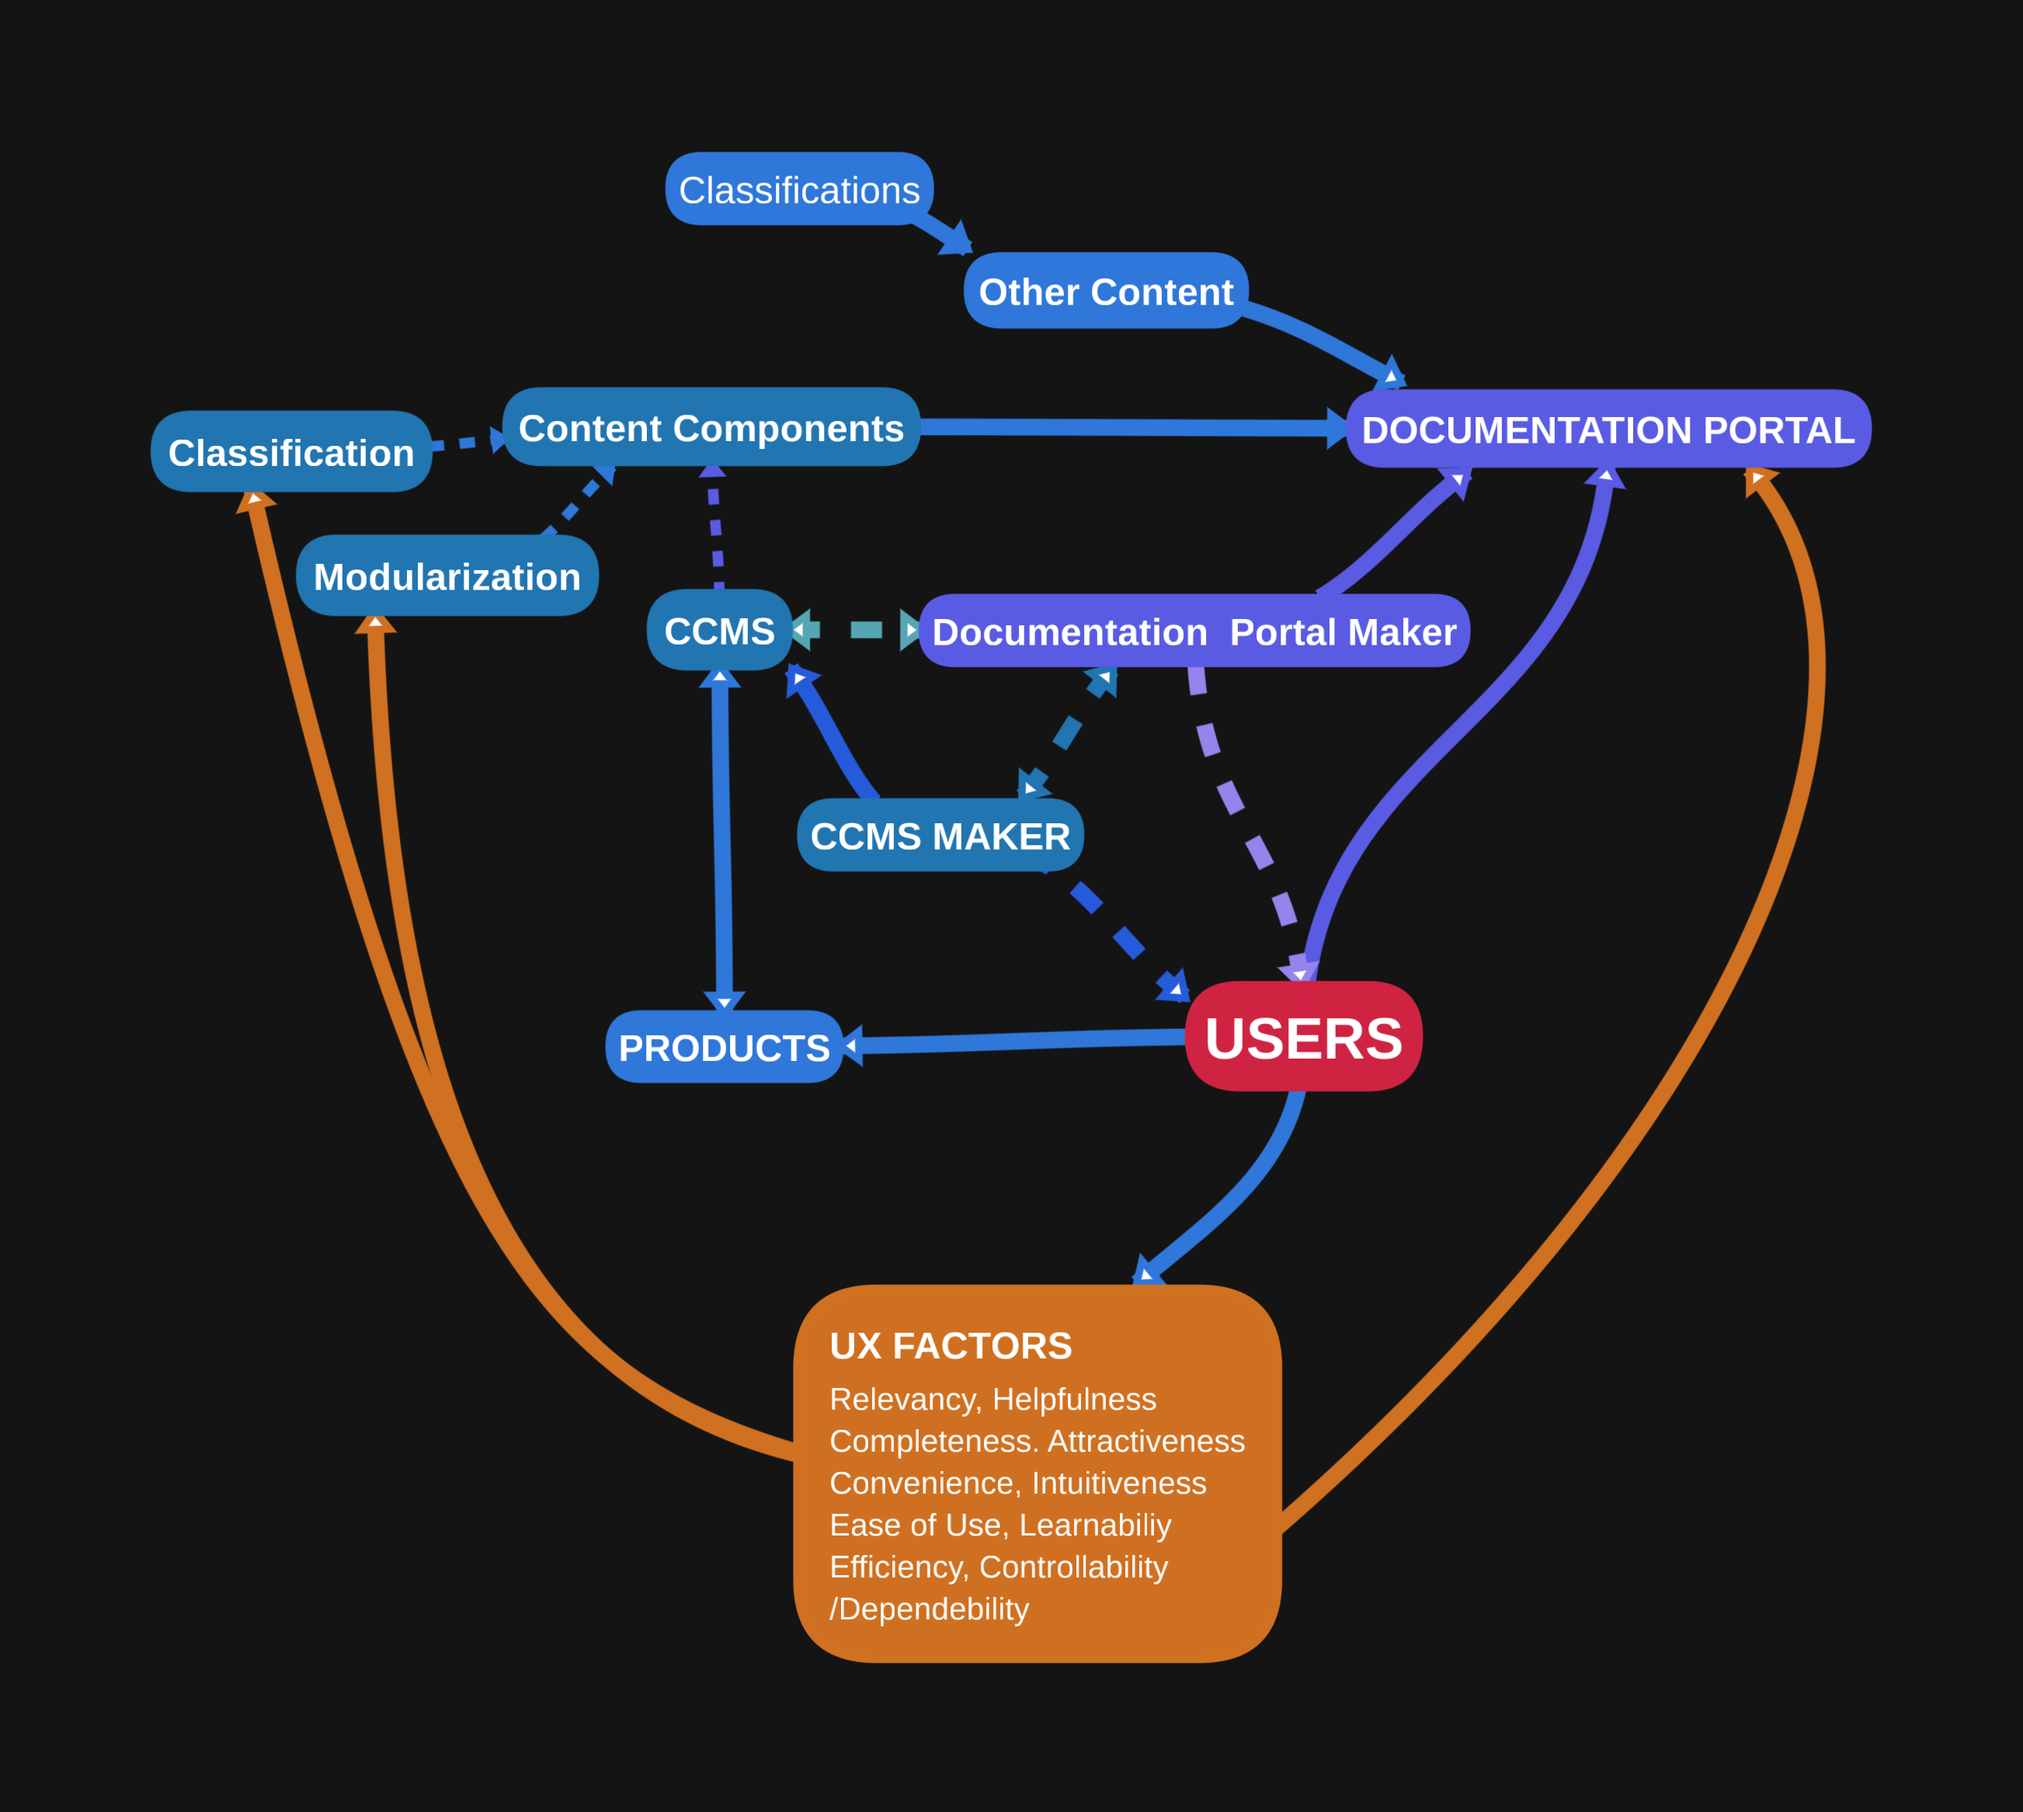
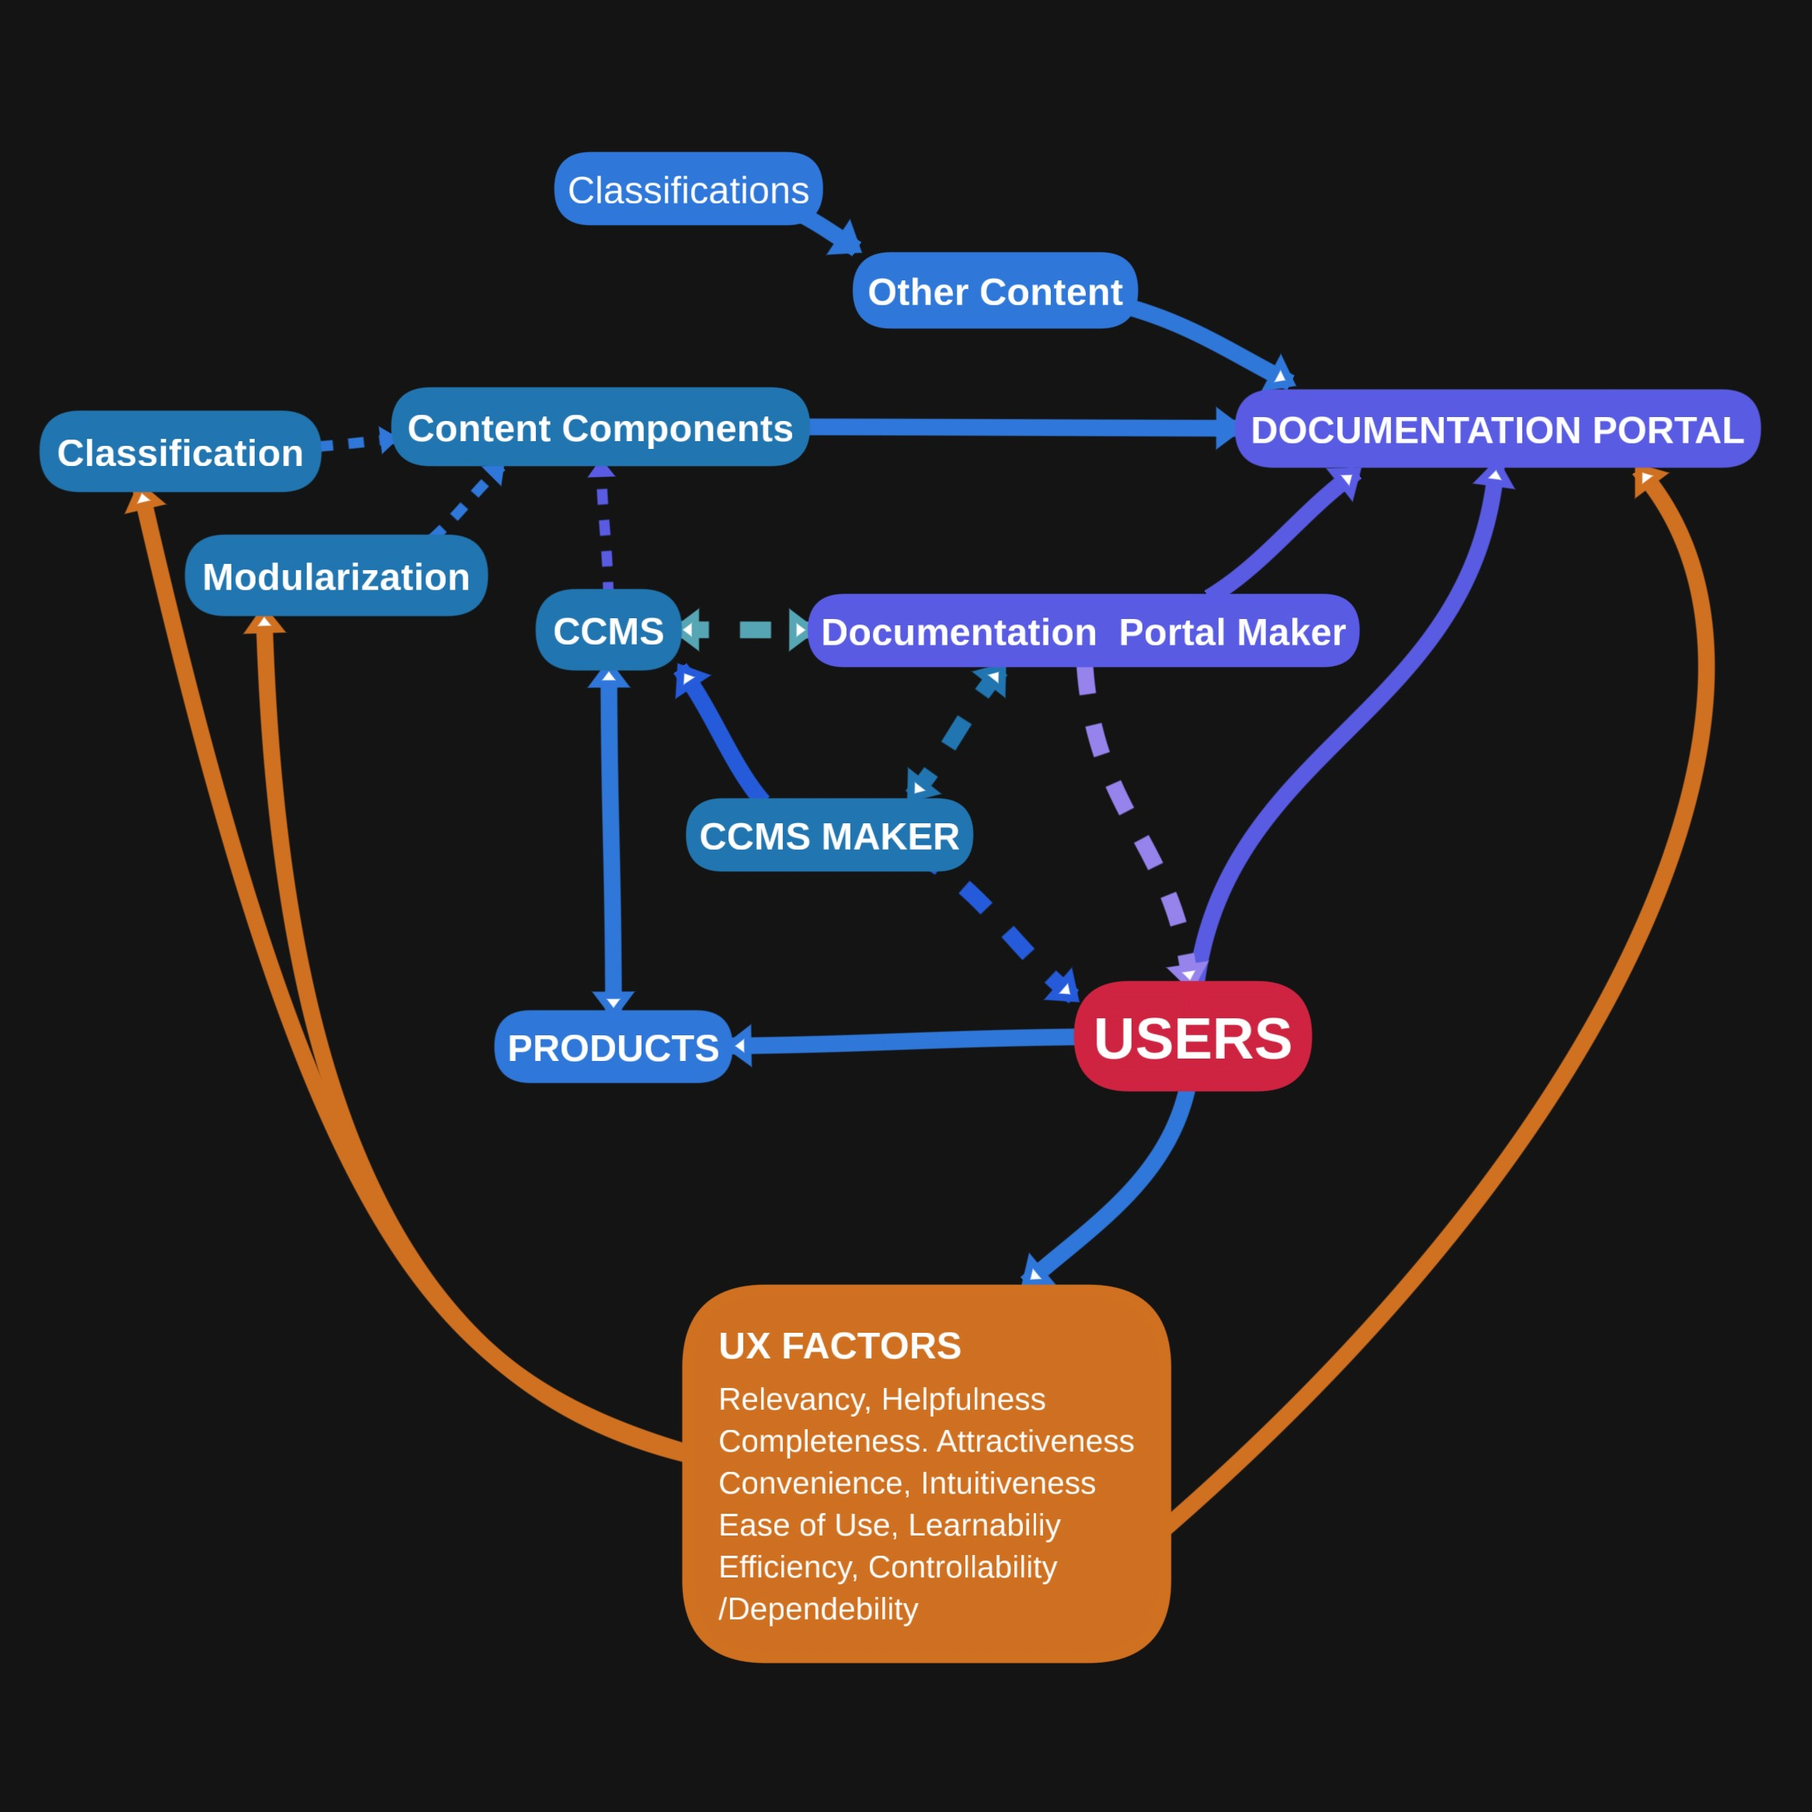
Added concepts en + de, styling, deploy ready

Changed region(s): [[0.0, 0.0617, 0.9876, 0.9258]]

diff --git a/src/components/conceptsContent.js b/src/components/conceptsContent.js
@@ -11,11 +11,16 @@ const ConceptsContent = () => {
       <p>
         <Trans>
           <i>Docentation portal</i> is a rather broad concept, even if we limit
-          it to the use in technical documentation. It is therefore necessary to
-          define what I am talking about in this research when using{" "}
-          <i>documentation portal</i>.
+          it to the use in technical documentation.
         </Trans>
       </p>
+      <p>
+        <Trans>
+          It is therefore necessary to define what I am talking about in this
+          research when using <i>documentation portal</i>.
+        </Trans>
+      </p>
+
       <h3>
         <Trans>Other Words for Documentation Portal</Trans>
       </h3>
@@ -28,55 +33,58 @@ const ConceptsContent = () => {
           non-professional user groups.
         </Trans>
       </p>
+
       <h3>
         <Trans>Characteristics of Documentation Portals</Trans>
       </h3>
       <p>
         <Trans>
           In this research, I will consider documentation portals that serve
-          documentation for several physical roducts in one application for one
+          documentation for several physical products in one application for one
           or more user groups.
         </Trans>
       </p>
+      <p>
+        <Trans>
+          The purpose of these documentation portals is to deliver technical
+          ducumentation to various ends on request.
+        </Trans>
+      </p>
+      <p>
+        <Trans>
+          Content modules, their size, relationships and capabilities
+          characterize these documentation portals and are related to my
+          research.
+        </Trans>
+      </p>
 
-      <p>
-        <Trans>
-          The purpose of these documentation portals is to find information to
-          various ends
-        </Trans>
-      </p>
-      <p>
-        <Trans>
-          Content units, their size, relationships and capabilities characterize
-          these documentation portals and are related to my research.
-        </Trans>
-      </p>
       <h3>
         <Trans>
-          What Documentstion Portals Are Not Considered in this Research
+          Which Documentation Portals Are Not Considered in this Research
         </Trans>
       </h3>
       <p>
         <Trans>
-          I will not consider software applications that serve static documents,
-          where content modularization by definition does not play a role.
+          I will not consider software applications that serve static documents
+          only, where content modularization by definition does not play a role.
         </Trans>
       </p>
       <p>
         <Trans>
-          I will not consider product centered software applications, like
-          digital twin applications, since they do not put the technical
-          documentation in the middle center of the application and come with
-          different requirements.
+          Furthermore, I will not consider product centered software
+          applications, like digital twin applications, since they do not put
+          the technical documentation in the center of the application and come
+          with different requirements.
         </Trans>
       </p>
       <p>
         <Trans>
           I will not consider documentation applications that serve the
-          technical documentation of one specific product, for example, and
-          application serving all the user documentation for a person's car
+          technical documentation of one specific product, for example, an
+          application serving all the user documentation for a person's car.
         </Trans>
       </p>
+
       <h2>
         <Trans>Documentation and Documents</Trans>
       </h2>
@@ -85,7 +93,7 @@ const ConceptsContent = () => {
       </h3>
       <p>
         <Trans>
-          <i>Documentation</i> in this reseach is technical documentation of
+          <i>Documentation</i> in this research is technical documentation of
           products containing information for use, not being limited to this.
         </Trans>
       </p>
@@ -102,24 +110,68 @@ const ConceptsContent = () => {
       <p>
         <Trans>
           In this research, <i>static documents</i> are files that will not be
-          used in variable outputs, once uploaded into the documentation potal,
-          while <i>dynamic documents</i> are files that can be used in various
-          outputs in the documentation portal.
+          used in variable outputs, once uploaded into the documentation potal.
         </Trans>
       </p>
+      <p>
+        <Trans>
+          <i>Dynamic documents</i> are files that can be used in various outputs
+          in the documentation portal.
+        </Trans>
+      </p>
+
       <h2>
         <Trans>Classification of Content</Trans>
       </h2>
       <p>
-        <Trans>A classifiable purposeful unit of content in a system.</Trans>
+        <Trans>Let's assume that content is created for the user.</Trans>
       </p>
+      <p>
+        <Trans>
+          Then, metadata and classes, are assigned to the content in order to
+          add context to the content, for example, a product category, a date or
+          a user group. The content gets classified or categorized.
+        </Trans>
+      </p>
+      <p>
+        <Trans>
+          Classification in this research is the subdivision of content-relevant
+          dimensions into classes with the purpose of ordering.
+        </Trans>
+      </p>
+      <p>
+        <Trans>
+          The classes and metadata can have a wide range of purposes. With
+          regard to documentation portals, content needs to be classified
+          according to several criteria that are related to this research.
+        </Trans>
+      </p>
+      <p>
+        <Trans>
+          Raufmann and Wolf [2] describe how facets for content that was
+          classified according to the PI standard in a CCMS were adapted for
+          deployment in a documentation portal to enhance usability.
+        </Trans>
+      </p>
+
+      <h2>
+        <Trans>Content Module</Trans>
+      </h2>
+      <p>
+        <Trans>
+          A classifiable purposeful unit of content in a content system.
+        </Trans>
+      </p>
+
       <h2>
         <Trans>Modularization of Content</Trans>
       </h2>
       <p>
         <Trans>
-          Modularization of content is the act of modeling content into
-          classifiable purposeful units. That is my own definition so far.
+          Modularization of content is the modeling of content into classifiable
+          purposeful units to put them in context to each other and thus enable
+          them to represent knowledge. This is the definition for this research
+          so far.
         </Trans>
       </p>
       <h3>
@@ -130,7 +182,9 @@ const ConceptsContent = () => {
           While it is said that in the field of Technical Communication a topic
           is self-contained content that can be understood without further
           context [1], there are several assumptions about context in this
-          statement.
+          statement.For example, that the content appears together with a
+          product, and more. Context is always necessary, be it implicit or
+          explicit.
         </Trans>
       </p>
       <p>
@@ -146,14 +200,14 @@ const ConceptsContent = () => {
         <Trans>
           In contrast to conventional static publishing formats, documentation
           portals as self-help portals pose a challenge to the conflicting
-          requirements of content to be modular as wel as to have content
+          requirements of content to be modular as well as to have content
           modules be provided with sufficient context.
         </Trans>
       </p>
       <p>
         <Trans>
-          User needs might come into play to a certain extent when modeling
-          content modules. This is subject of this research.
+          User needs might come into play when modeling content modules. This is
+          the subject of this research.
         </Trans>
       </p>
 
@@ -162,16 +216,26 @@ const ConceptsContent = () => {
       </h2>
       <p>
         <Trans>
-          UX factors are quality characteristics of a product. In this case of
-          documentation portals.
+          UX factors are quality characteristics of a product. In the present
+          case, of documentation portals.
         </Trans>
       </p>
       <p>
         <Trans>
-          If you can assign quantifiable parameters to them, these UX factors
+          If you assign quantifiable parameters to the factors, these UX factors
           can be translated into user needs, thus, into requirements.
         </Trans>
       </p>
+      <p>
+        <Trans>
+          I will make use of the consolidated UX factors list for digital
+          products of Hinderks, Winter, Schrepp and Thomaschewski [3].
+        </Trans>
+      </p>
+      <p>
+        <Trans>I chose 15 factors.</Trans>
+      </p>
+
       <h2>
         <Trans>References</Trans>
       </h2>
@@ -187,6 +251,12 @@ const ConceptsContent = () => {
             <Trans>
               Approaches for deployment and access of content in delivery
               portals Theresa Rauffmann, Monika Wolf (2020)
+            </Trans>
+          </li>
+          <li>
+            <Trans>
+              Applicability of User Experience and Usability Questionnaires
+              (2019) Hinderks, Winter, Schrepp, Thomaschewski
             </Trans>
           </li>
         </ol>

diff --git a/gatsby-config.js b/gatsby-config.js
@@ -70,12 +70,12 @@ module.exports = {
     {
       resolve: `gatsby-plugin-manifest`,
       options: {
-        name: `Uta Schulz`,
-        short_name: `Uta Schulz`,
-        description: `Translation, localization and DTP of technical documentation, eLearning and SEO content for the German market.`,
+        name: `TCLoc Master Theses Research | Uta Schulz`,
+        short_name: `TCLoc Master Theses Research`,
+        description: `How Documentation Portal UX Factors Impact Content Creation`,
         lang: `en`,
         display: `standalone`,
-        icon: `src/images/thesis-model.png`,
+        icon: `src/images/thesis-model.jpg`,
         icon_options: {
           purpose: `any`,
         },
@@ -86,9 +86,9 @@ module.exports = {
           {
             start_url: `/de/`,
             lang: `de`,
-            name: `Uta Schulz`,
-            short_name: `Uta Schulz`,
-            description: `Translation, localization and DTP of technical documentation, eLearning and SEO content for the German market.`,
+            name: `TCLoc Master Theses Research | Uta Schulz`,
+            short_name: `TCLoc Master Theses Research`,
+            description: `Wie UX-Faktoren in CDPs die Content-Erstellung beeinflussen`,
           },
         ],
       },
@@ -108,12 +108,6 @@ module.exports = {
         www: false,
         SymLinksIfOwnerMatch: true,
         host: "utaschulz.me",
-        // redirect: [
-        //   `
-        //   RewriteCond %{ENV:REDIRECT_STATUS} ^$
-        //   RewriteRule !^[a-z]{2}/ /en%{REQUEST_URI} [L,NE,R=301]
-        //   `,
-        // ],
       },
     },
   ],

diff --git a/src/components/seo.js b/src/components/seo.js
@@ -19,7 +19,6 @@ const SEO = ({
   tags,
   author,
   authorLink,
-  isbn,
   wordcount,
 }) => {
   // release_date format: string "yyyy-mm-dd"
@@ -274,7 +273,7 @@ const SEO = ({
       {seo.url && <link rel="canonical" href={seo.url} />}
       {languages.map((lng) => {
         const localizedPath = getLocalizedRoute(orgPath, lng);
-        const lang = "/" + lng;
+        const lang = lng !== defaultLanguage ? "/" + lng : "";
         return (
           <link
             rel="alternate"
@@ -286,7 +285,7 @@ const SEO = ({
       })}
       <link
         rel="alternate"
-        href={siteUrl + "/en" + getLocalizedRoute(orgPath, "en")}
+        href={siteUrl + getLocalizedRoute(orgPath, "en")}
         hrefLang="x-default"
       />
 

diff --git a/src/components/about.js b/src/components/about.js
@@ -20,7 +20,15 @@ const About = (params) => {
       </h2>
       <div className={aboutContentWrapper}>
         <div className={aboutContent}>
-          
+          <p>
+            <Trans>
+              Findability and context are important quality features of content.
+              Findability is related to UX factors like ease of use,
+              intuitiveness, efficiency. The right context of information is
+              related to UX factors like relevancy, helpfulness, completeness,
+              safety.
+            </Trans>
+          </p>
           <p>
             <Trans>
               In a documentation portal, how do we fulfil these user needs? Are

diff --git a/src/components/conceptsContent.module.css b/src/components/conceptsContent.module.css
@@ -10,4 +10,5 @@
 
 .wrapper h3 {
   color: rgb(224, 197, 163);
+  margin-top: 30px;
 }
